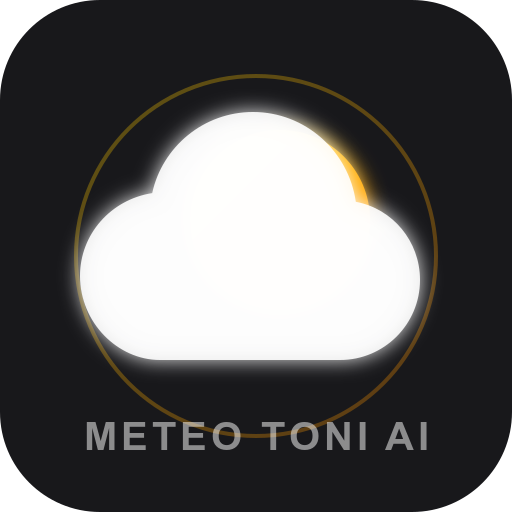
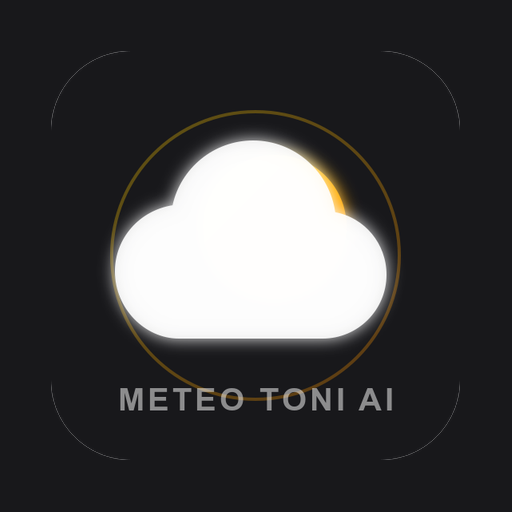
fix(seo): corregeix configuració PWA i visibilitat als cercadors
- Renombra Robots.txt -> robots.txt (GitHub Pages és case-sensitive,
  el fitxer amb R majúscula donava 404 als crawlers reals)
- Fixa lang: 'ca' al manifest de la PWA (sortia 'en' per defecte)
- Regenera maskable-icon.png amb marge de zona segura (abans era
  còpia exacta de l'icona normal, sense padding per al mask del SO)
- Afegeix theme-color, apple-mobile-web-app-capable, canonical i
  meta tags Open Graph/Twitter Card a l'index.html
- Elimina la icona vite.svg residual (boilerplate no utilitzat)
- Actualitza lastmod del sitemap.xml

diff --git a/index.html b/index.html
@@ -3,15 +3,30 @@
   <head>
     <meta charset="UTF-8" />
     <link rel="icon" type="image/png" href="/favicon-96x96.png" sizes="96x96" />
-    <link rel="icon" type="image/svg+xml" href="/vite.svg" />
     <link rel="shortcut icon" href="/favicon.ico" />
     <link rel="apple-touch-icon" sizes="180x180" href="/apple-touch-icon.png" />
     <meta name="apple-mobile-web-app-title" content="MeteoToniAI" />
-    
+    <meta name="apple-mobile-web-app-capable" content="yes" />
+    <meta name="theme-color" content="#05060A" />
+
     <title>MeteoToni AI | El Temps: IA, ECMWF i AROME HD</title>
-    
+
     <meta name="viewport" content="width=device-width, initial-scale=1.0, maximum-scale=1.0, user-scalable=no" />
     <meta name="description" content="Previsió meteorològica intel·ligent. Combina IA, models globals (ECMWF) i alta resolució local (AROME HD) per saber el temps exacte." />
+    <link rel="canonical" href="https://tonitapias.github.io/meteoai/" />
+
+    <meta property="og:type" content="website" />
+    <meta property="og:site_name" content="MeteoToni AI" />
+    <meta property="og:url" content="https://tonitapias.github.io/meteoai/" />
+    <meta property="og:title" content="MeteoToni AI | El Temps: IA, ECMWF i AROME HD" />
+    <meta property="og:description" content="Previsió meteorològica intel·ligent. Combina IA, models globals (ECMWF) i alta resolució local (AROME HD) per saber el temps exacte." />
+    <meta property="og:image" content="https://tonitapias.github.io/meteoai/screenshot-desktop.png" />
+    <meta property="og:locale" content="ca_ES" />
+
+    <meta name="twitter:card" content="summary_large_image" />
+    <meta name="twitter:title" content="MeteoToni AI | El Temps: IA, ECMWF i AROME HD" />
+    <meta name="twitter:description" content="Previsió meteorològica intel·ligent. Combina IA, models globals (ECMWF) i alta resolució local (AROME HD) per saber el temps exacte." />
+    <meta name="twitter:image" content="https://tonitapias.github.io/meteoai/screenshot-desktop.png" />
   </head>
   <body>
     <div id="root"></div>

diff --git a/vite.config.js b/vite.config.js
@@ -33,6 +33,7 @@ export default defineConfig({
         name: 'MeteoToni AI', //[cite: 3]
         short_name: 'MeteoToni', //[cite: 3]
         description: 'Previsió meteorològica intel·ligent amb models ECMWF i AROME.', //[cite: 3]
+        lang: 'ca',
         theme_color: '#05060A', //[cite: 3]
         background_color: '#05060A', //[cite: 3]
         display: 'standalone', //[cite: 3]
